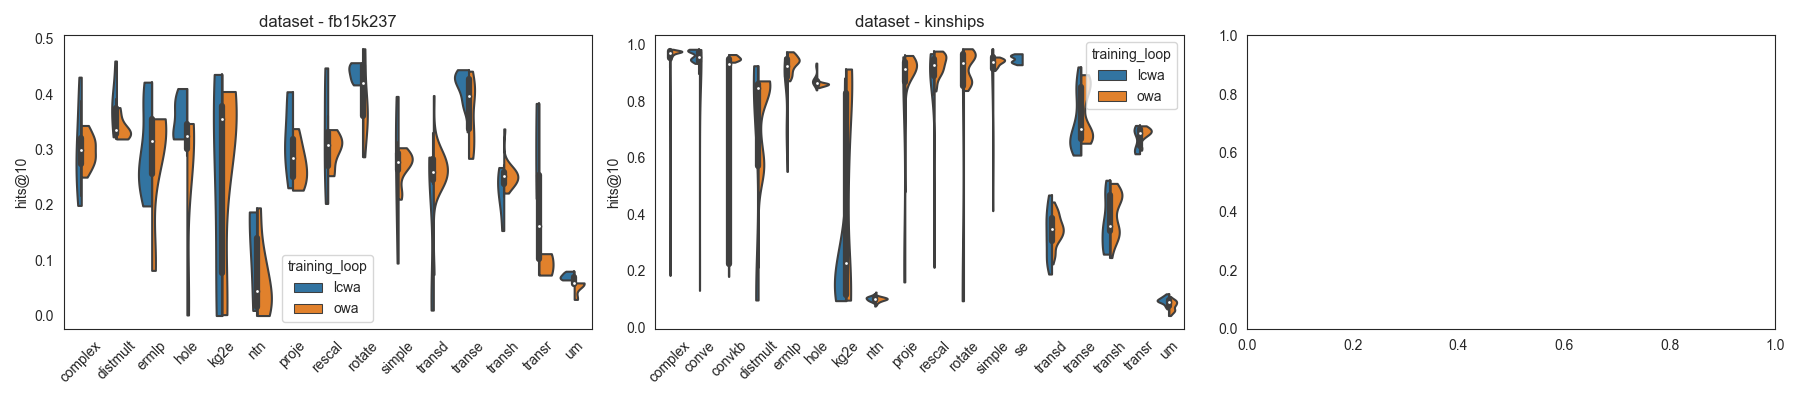
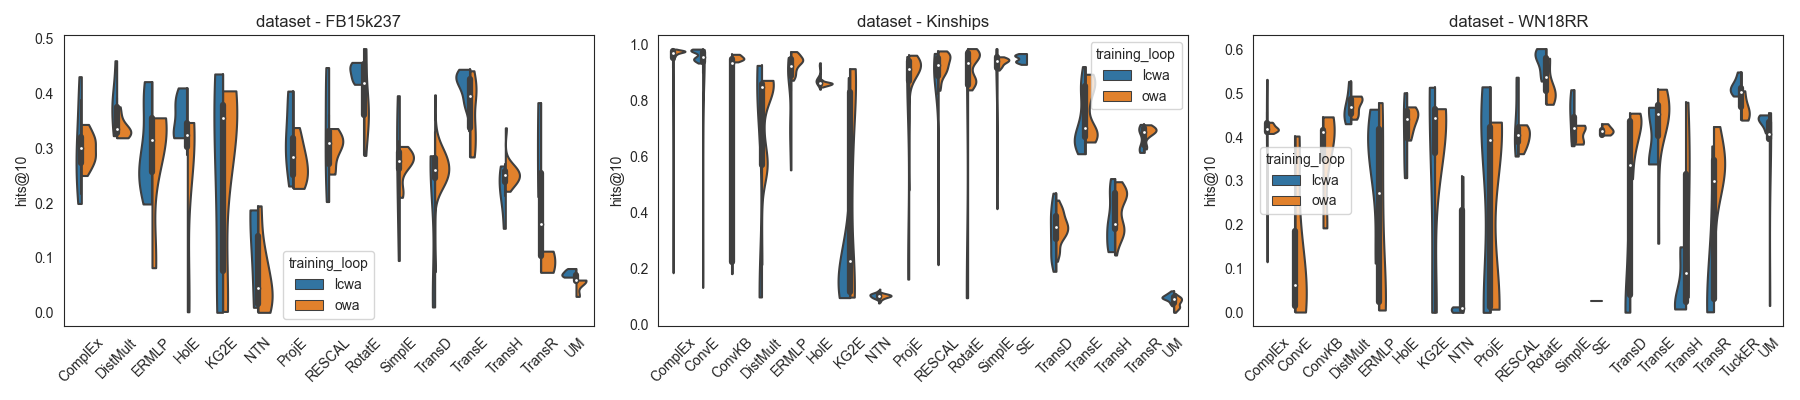
Prettier labels

diff --git a/ablation/collate.py b/ablation/collate.py
@@ -7,7 +7,7 @@ from typing import Any, Iterable, Mapping, Optional, Type, Union
 import pandas as pd
 from tqdm import tqdm
 
-from pykeen.datasets import DataSet, get_dataset
+from pykeen.datasets import DataSet, datasets, get_dataset
 from pykeen.losses import Loss, get_loss_cls
 from pykeen.models import get_model_cls, models
 from pykeen.models.base import Model
@@ -26,8 +26,16 @@ logging.getLogger('pykeen.triples.triples_factory').setLevel(logging.ERROR)
 COLLATION_PATH = os.path.join(SUMMARY_DIRECTORY, 'results.tsv')
 
 MODEL = {
-    'unstructuredmodel': 'um',
-    'structuredembedding': 'se',
+    'unstructuredmodel': 'UM',
+    'structuredembedding': 'SE',
+}
+for model_key, model_cls in models.items():
+    if model_key not in MODEL:
+        MODEL[model_key] = model_cls.__name__
+
+DATASETS = {
+    dataset_key: dataset_cls.__name__
+    for dataset_key, dataset_cls in datasets.items()
 }
 
 LOSS = {
@@ -59,6 +67,15 @@ ABLATION_HEADERS = [
 MODEL_BYTES = 'model_bytes'
 
 logger = logging.getLogger(__name__)
+
+
+def read_collation() -> pd.DataFrame:
+    df = pd.read_csv(COLLATION_PATH, sep='\t')
+    df['model'] = df['model'].map(lambda l: MODEL.get(l, l))
+    df['loss'] = df['loss'].map(lambda l: LOSS.get(l, l))
+    df['regularizer'] = df['regularizer'].map(lambda l: REGULARIZER.get(l, l))
+    df['dataset'] = df['dataset'].map(lambda l: DATASETS.get(l, l))
+    return df
 
 
 def collate(key: str = 'hits@10') -> pd.DataFrame:

diff --git a/ablation/plot.py b/ablation/plot.py
@@ -9,7 +9,7 @@ import pandas as pd
 import seaborn as sns
 from tqdm import tqdm
 
-from collate import ABLATION_HEADERS, COLLATION_PATH, HERE, LOSS, MODEL, REGULARIZER, SUMMARY_DIRECTORY, collate
+from collate import ABLATION_HEADERS, COLLATION_PATH, HERE, REGULARIZER, SUMMARY_DIRECTORY, collate, read_collation
 
 logger = logging.getLogger(__name__)
 
@@ -46,10 +46,7 @@ def make_config_index(row: Mapping[str, Any]) -> str:
 
 def make_plots(*, target_header: str):
     """Collate all HPO results in a single table."""
-    df = pd.read_csv(COLLATION_PATH, sep='\t')
-    df['model'] = df['model'].map(lambda l: MODEL.get(l, l))
-    df['loss'] = df['loss'].map(lambda l: LOSS.get(l, l))
-    df['regularizer'] = df['regularizer'].map(lambda l: REGULARIZER.get(l, l))
+    df = read_collation()
 
     for k in ['searcher', 'evaluator']:
         if k in df.columns:

diff --git a/ablation/sizeplots.py b/ablation/sizeplots.py
@@ -11,7 +11,7 @@ import seaborn as sns
 from scipy.spatial import ConvexHull
 from tqdm import tqdm
 
-from collate import COLLATION_PATH, MODEL, SUMMARY_DIRECTORY
+from collate import MODEL, SUMMARY_DIRECTORY, read_collation
 
 logger = logging.getLogger(__name__)
 
@@ -21,7 +21,7 @@ os.makedirs(SIZEPLOTS_DIRECTORY, exist_ok=True)
 
 def main():
     """Collate all HPO results in a single table."""
-    df = pd.read_csv(COLLATION_PATH, sep='\t')
+    df = read_collation()
     make_ratio_distplots(df)
     make_sizeplots(df)
     make_skylines(df)

diff --git a/ablation/summary/1D-slices/README.md b/ablation/summary/1D-slices/README.md
@@ -1,59 +1,59 @@
 # Ablation Results
 
-Output at Thu May 21 15:14:55 2020
+Output at Thu May 21 15:35:34 2020
 
 ## Dataset
 
-<img src="dataset_fb15k237.png" alt="fb15k237"/>
+<img src="dataset_FB15k237.png" alt="FB15k237"/>
 
-<img src="dataset_kinships.png" alt="kinships"/>
+<img src="dataset_Kinships.png" alt="Kinships"/>
+
+<img src="dataset_WN18RR.png" alt="WN18RR"/>
+
+<img src="dataset_YAGO310.png" alt="YAGO310"/>
 
 <img src="dataset_wn18RR.png" alt="wn18RR"/>
-
-<img src="dataset_wn18rr.png" alt="wn18rr"/>
-
-<img src="dataset_yago310.png" alt="yago310"/>
 
 
 ## Model
 
-<img src="model_complex.png" alt="complex"/>
+<img src="model_ComplEx.png" alt="ComplEx"/>
 
-<img src="model_conve.png" alt="conve"/>
+<img src="model_ConvE.png" alt="ConvE"/>
 
-<img src="model_convkb.png" alt="convkb"/>
+<img src="model_ConvKB.png" alt="ConvKB"/>
 
-<img src="model_distmult.png" alt="distmult"/>
+<img src="model_DistMult.png" alt="DistMult"/>
 
-<img src="model_ermlp.png" alt="ermlp"/>
+<img src="model_ERMLP.png" alt="ERMLP"/>
 
-<img src="model_hole.png" alt="hole"/>
+<img src="model_HolE.png" alt="HolE"/>
 
-<img src="model_kg2e.png" alt="kg2e"/>
+<img src="model_KG2E.png" alt="KG2E"/>
 
-<img src="model_ntn.png" alt="ntn"/>
+<img src="model_NTN.png" alt="NTN"/>
 
-<img src="model_proje.png" alt="proje"/>
+<img src="model_ProjE.png" alt="ProjE"/>
 
-<img src="model_rescal.png" alt="rescal"/>
+<img src="model_RESCAL.png" alt="RESCAL"/>
 
-<img src="model_rotate.png" alt="rotate"/>
+<img src="model_RotatE.png" alt="RotatE"/>
 
-<img src="model_se.png" alt="se"/>
+<img src="model_SE.png" alt="SE"/>
 
-<img src="model_simple.png" alt="simple"/>
+<img src="model_SimplE.png" alt="SimplE"/>
 
-<img src="model_transd.png" alt="transd"/>
+<img src="model_TransD.png" alt="TransD"/>
 
-<img src="model_transe.png" alt="transe"/>
+<img src="model_TransE.png" alt="TransE"/>
 
-<img src="model_transh.png" alt="transh"/>
+<img src="model_TransH.png" alt="TransH"/>
 
-<img src="model_transr.png" alt="transr"/>
+<img src="model_TransR.png" alt="TransR"/>
 
-<img src="model_tucker.png" alt="tucker"/>
+<img src="model_TuckER.png" alt="TuckER"/>
 
-<img src="model_um.png" alt="um"/>
+<img src="model_UM.png" alt="UM"/>
 
 
 ## Loss

diff --git a/ablation/README.md b/ablation/README.md
@@ -1,14 +1,14 @@
 # Ablation Results
 
-Output at Thu May 21 15:14:55 2020
+Output at Thu May 21 15:35:34 2020
 
-<img src="summary/1D-slices/dataset_fb15k237.png" alt="fb15k237"/>
+<img src="summary/1D-slices/dataset_FB15k237.png" alt="FB15k237"/>
 
-<img src="summary/1D-slices/dataset_kinships.png" alt="kinships"/>
+<img src="summary/1D-slices/dataset_Kinships.png" alt="Kinships"/>
+
+<img src="summary/1D-slices/dataset_WN18RR.png" alt="WN18RR"/>
+
+<img src="summary/1D-slices/dataset_YAGO310.png" alt="YAGO310"/>
 
 <img src="summary/1D-slices/dataset_wn18RR.png" alt="wn18RR"/>
-
-<img src="summary/1D-slices/dataset_wn18rr.png" alt="wn18rr"/>
-
-<img src="summary/1D-slices/dataset_yago310.png" alt="yago310"/>
 
